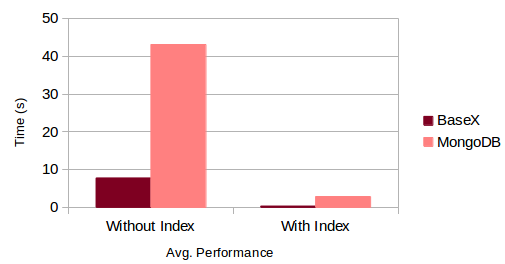
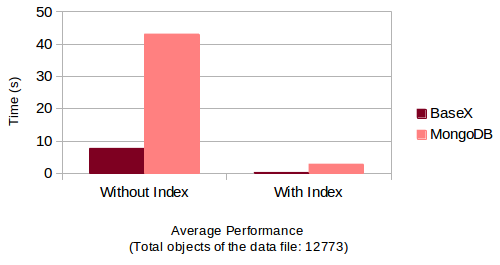
Minor changes in Fig. 26.

Changed region(s): [[0.0, 0.0303, 0.99, 0.8182], [0.21, 0.8182, 0.72, 1.0]]

diff --git a/writing/Tex/GeoSpatialinBaseX.tex b/writing/Tex/GeoSpatialinBaseX.tex
@@ -1706,8 +1706,8 @@ The assessment process is continued by applying the geospatial index. In MongoDB
 db.Collection.ensureIndex({geometry:"2dsphere"}) 
 \end{fakeJSON}
 \vspace{10px}
-The same step is also taken in BaseX. Running again the same queries using a geospatial index, supposedly gives declined query times and an upward trend in performance as the number of results go higher in both databases (see Figure~\ref{figBXvsMongoIndexIntersects}). As explained in Section~\ref{s.basex}, index is applied through the \textit{filter} function in BaseX while MongoDB follows another approach. MongoDB applies the index in casual query formats after executing the above-mentioned command and there is no need to change the queries in general. Figure~\ref{f.avg} illustrates how BaseX and MongoDB perform when running the two main geospatial functions, \textit{within} (Figure~\ref{withinAvg}) and \textit{intersect} (Figure~\ref{intersectsAvg}). For each function the average time of eight different queries is shown which are executed with and without index. Not surprisingly, the index structure dramatically improves the performance.
-
+The same step is also taken in BaseX. Running again the same queries using a geospatial index, supposedly gives declined query times and an upward trend in performance as the number of results go higher in both databases (see Figure~\ref{figBXvsMongoIndexIntersects}). As explained in Section~\ref{s.basex}, index is applied through the \textit{filter} function in BaseX while MongoDB follows another approach. MongoDB applies the index in casual query formats after executing the above-mentioned command and there is no need to change the queries in general. Figure~\ref{f.avg} illustrates how BaseX and MongoDB perform when running the two main geospatial functions, \textit{within} (Figure~\ref{withinAvg}) and \textit{intersect} (Figure~\ref{intersectsAvg}). For each function the average time of eight different queries is shown which are executed with and without index. For the \textit{intersect} function, we calculated the average for the same results shown in Figure~\ref{figBXvsMongoIndexIntersects} and for the \textit{within} function we have chosen another queries with the range of results from 64 to 1871 numbers.
+Not surprisingly, the index structure dramatically improves the performance while queries without using the geospatial index have the same performance for any query. As it can be seen in this figure, in both functions BaseX outperforms MongoDB.
 \begin{figure}
 \centering
 \includegraphics[width=0.8\textwidth]{BXvsMongo-Intersects-Index-Sec-log}
@@ -1967,19 +1967,19 @@ Besides, we can follow this idea by connection to the other well-known databases
 \newpage
 \section{Summary}
 \label{sum}
-In this thesis, we discussed several topics related to the geospatial data processing. As the main focuse, we examined issues related to geospatial features in native XML database BaseX. 
+In this thesis, we discussed several topics related to the geospatial data processing. As the main focus, we examined issues related to geospatial features in native XML database BaseX. 
 
-Knowing the geospatial properties and definitions, the first topic that we covered as the most important one, was the geospatial indexing structure. We chose some major indexing structures and their variations which are studied broadly in the literature. Numerous structures are introduced later based on the few ones, such as KD-tree or R-tree. We explained each algorithm together with its pros and cons by collecting the information from various sources. This section as a quick source, provides a perspective of the different structures for future developments in BaseX. As stated in Section~\ref{s.geospatial-index}, each index structure is developed to meet a particular requirement. For Example, dynamic variants of the R-tree are proper for the data which changes frequently. Consequently, a suitable index structure should be chosen based on the system properties and features. However there are numerous publications on this topic, choosing and implementing an index structure is not straightforward. Since the R-tree is a widely used structure, we chose an advanced static variant of the R-tree, STR-tree, to implement a experimental index structure in BaseX. The implementation which is integrated into BaseX is from a well-known open source API, JTS. 
+Knowing the geospatial properties and definitions, the first topic that we covered as the most important one, was the geospatial indexing structure. We chose some major indexing structures and their variations which are studied broadly in the literature. Numerous structures are introduced later based on the few ones, such as KD-tree or R-tree. We explained each algorithm together with its pros and cons by collecting the information from various sources. This explanation provides a perspective of the different indexing structures for future developments in BaseX. As stated in Section~\ref{s.geospatial-index}, each index structure is developed to meet a particular requirement. For Example, dynamic variants of the R-tree are proper for the data which changes frequently. Consequently, a suitable index structure should be chosen based on the system properties and features. However there are numerous publications on this topic, choosing and implementing an index structure is not straightforward. Since the R-tree is a widely used structure, we chose an advanced static variant of the R-tree, STR-tree, to implement a experimental index structure in BaseX. The implementation which is integrated into BaseX is from a well-known open source API, JTS. 
 
 Another topic we discussed in this thesis is the related areas to focus when providing geospatial features.
-To the best of our knowledge, storage and querying are the main topics and we introduced some proposed or implemented ideas. Beside, we explained the geospatial features in some database systems to shows how the implemented ideas work.
+To the best of our knowledge, storage and querying are the main topics and we introduced some proposed or implemented ideas. Besides, we explained the geospatial features in some database systems to show how the implemented ideas work.
 
 
 The Geo Module implementation in BaseX as our focus starts with geospatial functions and proceeds with adding the STR-tree as the index structure. The evaluations demonstrates how the index implementation and other optimizations helped us to follow a better performance.
 
 
-Studying geospatial features of MongoDB, we found that in some cases BaseX outperforms MongoDB and vise versa. Hence, we tried to run the queries which MongoDB provides better performance through a driver. We represented the evaluations which are convincing to follow this approach as a parallel way. 
-As we discussed in Section~\ref{s.future}, the BaseX Geo Module can be expanded by adding the support of other geospatial data formats and an index structure for dynamic data such as Quad-tree. Besides, the idea of connecting to MongoDB can be integrated into BaseX to benefit from the specific index structure and features for GeoJSON.
+Studying geospatial features of MongoDB, we found that in some cases BaseX outperforms MongoDB and vise versa. Hence, we ran the queries in which MongoDB provides better performance through a driver. We represented the evaluations which are convincing to follow this approach as a parallel way. 
+As we discussed in Section~\ref{s.future}, the BaseX Geo Module can be expanded by adding the support of other geospatial data formats and an index structure for dynamic data like Quad-tree. Additionally, the idea of connecting to MongoDB can be integrated into BaseX to benefit from the specific index structure and features for GeoJSON.
 
 
 
